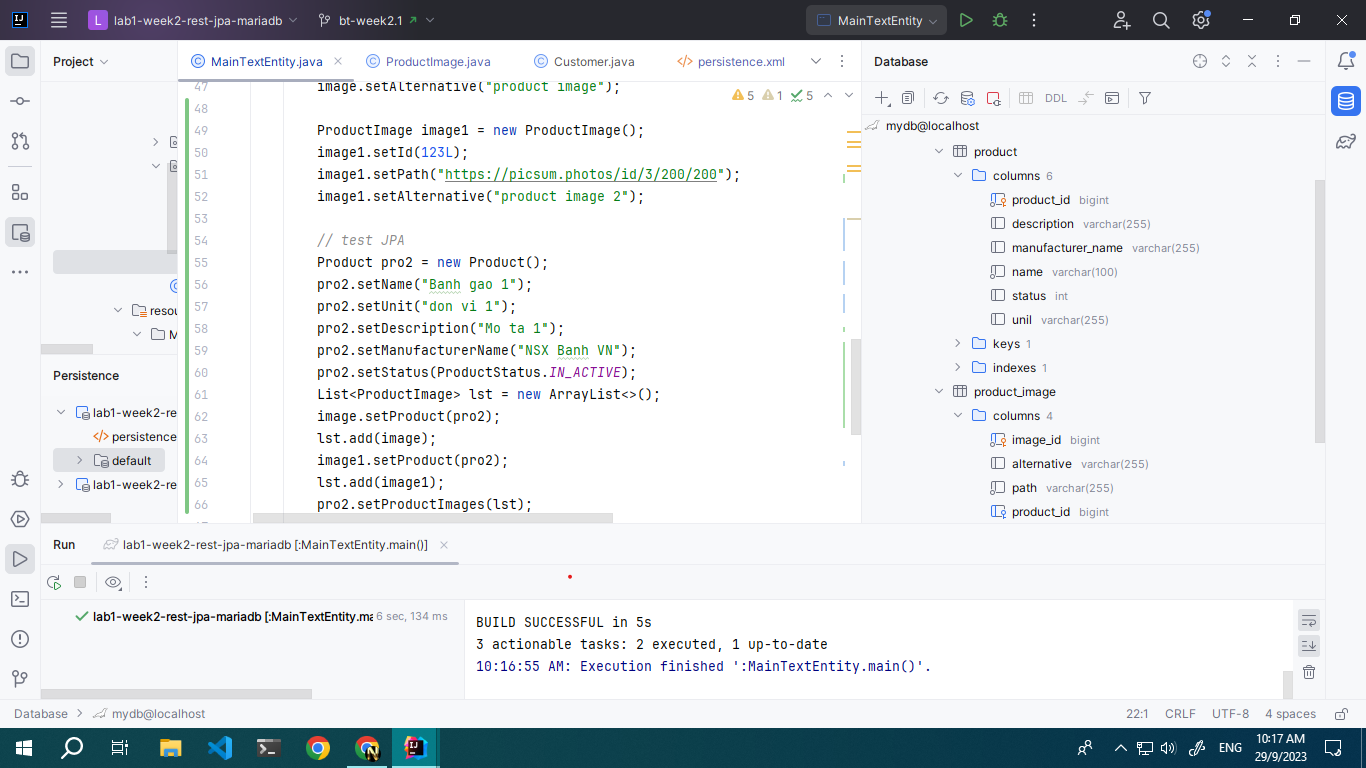
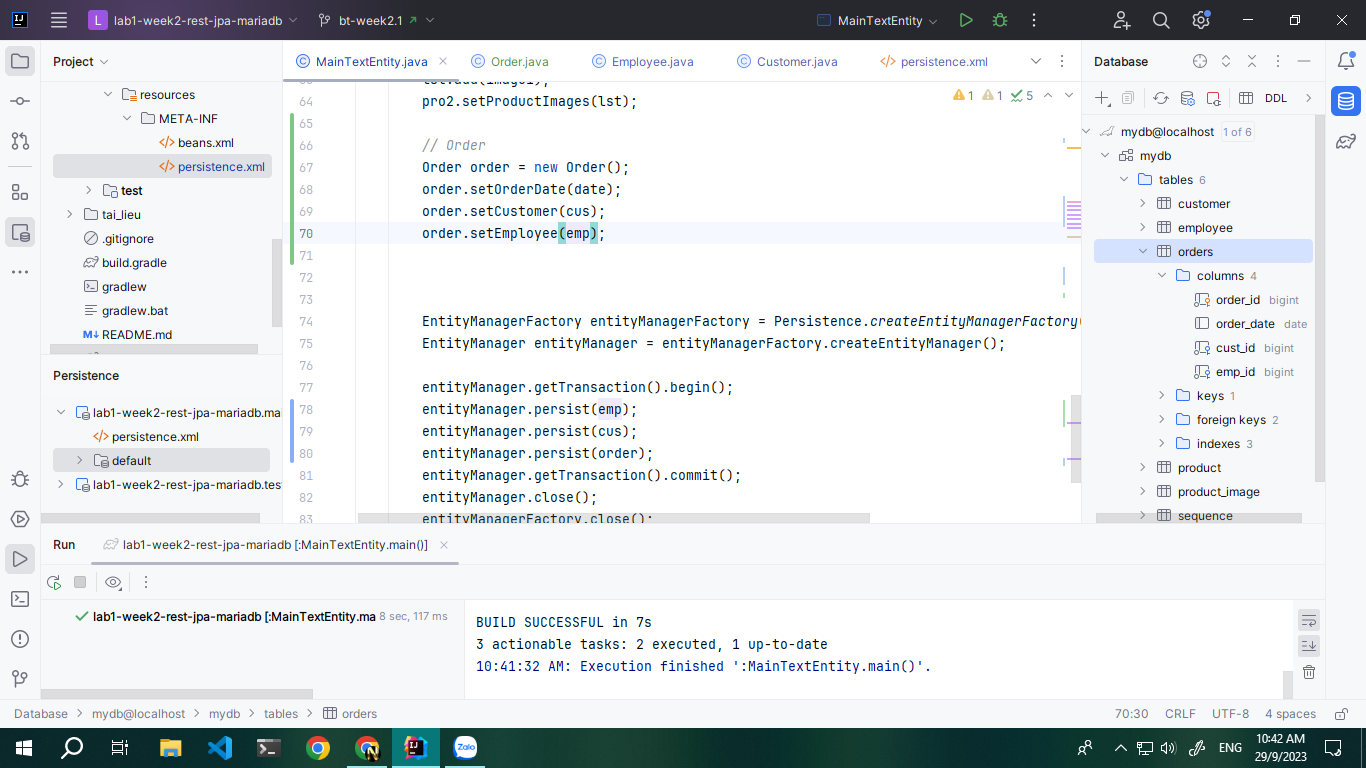
add JPA - Order-Cus-emp  - data

diff --git a/week2_RestAPI/lab1-week2-rest-jpa-mariadb/src/main/java/vn/edu/iuh/fit/MainTextEntity.java b/week2_RestAPI/lab1-week2-rest-jpa-mariadb/src/main/java/vn/edu/iuh/fit/MainTextEntity.java
@@ -5,10 +5,7 @@ import jakarta.persistence.EntityManagerFactory;
 import jakarta.persistence.Persistence;
 import vn.edu.iuh.fit.enums.EmployeeStatus;
 import vn.edu.iuh.fit.enums.ProductStatus;
-import vn.edu.iuh.fit.models.Customer;
-import vn.edu.iuh.fit.models.Employee;
-import vn.edu.iuh.fit.models.Product;
-import vn.edu.iuh.fit.models.ProductImage;
+import vn.edu.iuh.fit.models.*;
 
 import java.sql.Date;
 import java.time.LocalDate;
@@ -19,14 +16,14 @@ public class MainTextEntity {
 
     public static void main(String[] args) {
 
-//        LocalDate date = LocalDate.of(2020, 1, 8);
-//        Employee emp = new Employee();
-//        emp.setName("Nguyen Van 1");
-//        emp.setEmail("email@gmail.com");
-//        emp.setPhone("0951753001");
-//        emp.setDob(date);
-//        emp.setAddress("12 phan co ich");
-//        emp.setStatus(EmployeeStatus.IN_ACTIVE);
+        LocalDate date = LocalDate.of(2020, 1, 8);
+        Employee emp = new Employee();
+        emp.setName("Nguyen Van 1");
+        emp.setEmail("email@gmail.com");
+        emp.setPhone("0951753001");
+        emp.setDob(date);
+        emp.setAddress("12 phan co ich");
+        emp.setStatus(EmployeeStatus.IN_ACTIVE);
 
 //        Product pro1 = new Product();
 //        pro1.setName("Banh gao 1");
@@ -35,12 +32,13 @@ public class MainTextEntity {
 //        pro1.setManufacturerName("NSX Banh VN");
 //        pro1.setStatus(ProductStatus.IN_ACTIVE);
 
-//        Customer cus = new Customer();
-//        cus.setName("Tran binh");
-//        cus.setEmail("Binh@gmail.com");
-//        cus.setPhone("0951753002");
-//        cus.setAddress("12 phan co ich");
+        Customer cus = new Customer();
+        cus.setName("Tran binh");
+        cus.setEmail("Binh@gmail.com");
+        cus.setPhone("0951753002");
+        cus.setAddress("12 phan co ich");
 
+//
         ProductImage image = new ProductImage();
         image.setId(12L);
         image.setPath("https://picsum.photos/id/2/200/200");
@@ -65,12 +63,21 @@ public class MainTextEntity {
         lst.add(image1);
         pro2.setProductImages(lst);
 
+        // Order
+        Order order = new Order();
+        order.setOrderDate(date);
+        order.setCustomer(cus);
+        order.setEmployee(emp);
+
+
 
         EntityManagerFactory entityManagerFactory = Persistence.createEntityManagerFactory("default");
         EntityManager entityManager = entityManagerFactory.createEntityManager();
 
         entityManager.getTransaction().begin();
-        entityManager.persist(pro2);
+        entityManager.persist(emp);
+        entityManager.persist(cus);
+        entityManager.persist(order);
         entityManager.getTransaction().commit();
         entityManager.close();
         entityManagerFactory.close();

diff --git a/week2_RestAPI/lab1-week2-rest-jpa-mariadb/src/main/java/vn/edu/iuh/fit/models/Order.java b/week2_RestAPI/lab1-week2-rest-jpa-mariadb/src/main/java/vn/edu/iuh/fit/models/Order.java
@@ -1,0 +1,69 @@
+package vn.edu.iuh.fit.models;
+
+import jakarta.persistence.*;
+
+import java.time.LocalDate;
+
+/**
+ * orders (order_id, order_date, emp_id, cust_id)
+ */
+
+@Entity
+@Table(name = "orders")
+public class Order {
+    @Id
+    @GeneratedValue
+    @Column(name = "order_id")
+    private long id;
+    @Column(name = "order_date")
+    private LocalDate orderDate;
+
+    //JPA
+    @ManyToOne
+    @JoinColumn(name = "emp_id", nullable = false)
+    private Employee employee;
+
+    @ManyToOne
+    @JoinColumn(name = "cust_id", nullable = false)
+    private Customer customer;
+
+    public Employee getEmployee() {
+        return employee;
+    }
+
+    public void setEmployee(Employee employee) {
+        this.employee = employee;
+    }
+
+    public Customer getCustomer() {
+        return customer;
+    }
+
+    public void setCustomer(Customer customer) {
+        this.customer = customer;
+    }
+
+    public long getId() {
+        return id;
+    }
+
+    public void setId(long id) {
+        this.id = id;
+    }
+
+    public LocalDate getOrderDate() {
+        return orderDate;
+    }
+
+    public void setOrderDate(LocalDate orderDate) {
+        this.orderDate = orderDate;
+    }
+
+    public Order() {
+    }
+
+    public Order(long id, LocalDate orderDate) {
+        this.id = id;
+        this.orderDate = orderDate;
+    }
+}

diff --git a/week2_RestAPI/lab1-week2-rest-jpa-mariadb/src/main/java/vn/edu/iuh/fit/models/Employee.java b/week2_RestAPI/lab1-week2-rest-jpa-mariadb/src/main/java/vn/edu/iuh/fit/models/Employee.java
@@ -4,6 +4,7 @@ import jakarta.persistence.*;
 import vn.edu.iuh.fit.enums.EmployeeStatus;
 
 import java.time.LocalDate;
+import java.util.List;
 
 /**
  * employee (emp_id, full_name, dob, email, phone, address, status)
@@ -27,6 +28,10 @@ public class Employee {
     private String address;
     @Column(name = "status",nullable = false)
     private EmployeeStatus status;
+
+    //JPA
+    @OneToMany(mappedBy = "employee")
+    private List<Order> lstOrder;
 
     @Override
     public String toString() {

diff --git a/week2_RestAPI/lab1-week2-rest-jpa-mariadb/src/main/java/vn/edu/iuh/fit/models/Customer.java b/week2_RestAPI/lab1-week2-rest-jpa-mariadb/src/main/java/vn/edu/iuh/fit/models/Customer.java
@@ -2,6 +2,8 @@ package vn.edu.iuh.fit.models;
 
 import jakarta.persistence.*;
 
+import java.util.List;
+
 /**
  * customer (cust_id, cust_name, email, phone, address)
  *
@@ -24,6 +26,11 @@ public class Customer {
     private String phone;
     @Column(name = "address")
     private String address;
+
+    //JPA
+    @OneToMany(mappedBy = "customer")
+    private List<Order> lstOrders;
+
 
     public Customer() {
     }
